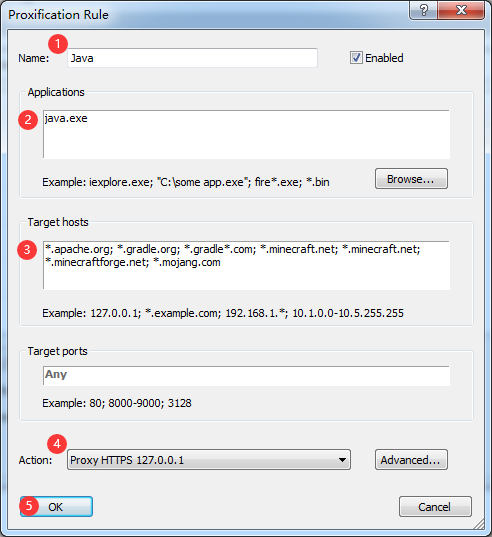
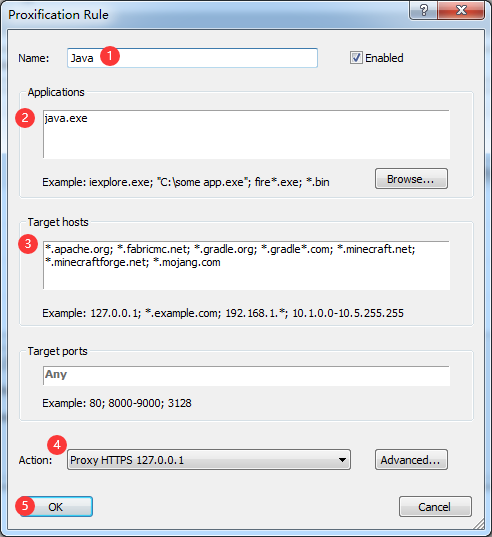
Add downloading jdks for MCreator.

diff --git a/5.md b/5.md
@@ -3,17 +3,17 @@
 # 配置 Proxifier
 
 成功启动 Proxifier 之后，可以在此处下载配置文件，然后按以下步骤操作以替换原先 Proxifier 默认的配置文件：  
-1. **单击[此处](https://gitee.com/zekerzhayard/minecraft-forge-proxy-tutorial/attach_files/1122220/download/MinecraftForge.ppx)下载 Proxifier 的配置文件「MinecraftForge.ppx」**
+1. **单击[此处](https://gitee.com/zekerzhayard/minecraft-forge-proxy-tutorial/attach_files/1137535/download/Minecraft.ppx)下载 Proxifier 的配置文件「Minecraft.ppx」**
 1. 依次选择左上角「File」—「Import Profile...」  
    ![25](assets/25.png)
 1. 在弹出的对话框中单击「是(Y)」按钮  
    ![26](assets/26.png)
-1. 选择刚刚下载到的「MinecraftForge.ppx」文件，然后单击「打开(O)」按钮
+1. 选择刚刚下载到的「Minecraft.ppx」文件，然后单击「打开(O)」按钮
    ![27](assets/27.png)
 
 这样就导入了配置文件。
 
-**最后保持 Shadwosocks 和 Proxifier 都在运行，不要关闭退出它们，就可以开始配置 Minecraft Forge 开发环境了。**
+**最后保持 Shadwosocks 和 Proxifier 都在运行，不要关闭退出它们，就可以开始配置 Minecraft Mod 开发环境了。**
 
 如果想要退出 Proxifier，只需要右键任务栏托盘中的 Proxifier 图标并单击「Exit」即可。
 
@@ -43,7 +43,7 @@
 1. 在弹出的窗口中依次填入以下内容  
    >Name：随便写  
    >Applications：java.exe  
-   >Target hosts：\*.apache.org; \*.gradle.org; \*.gradle\*.com; \*.minecraft.net; \*.minecraftforge.net; \*.mojang.com  
+   >Target hosts：\*.apache.org; \*.fabricmc.net; \*.gradle.org; \*.gradle\*.com; \*.minecraft.net; \*.minecraftforge.net; \*.mojang.com  
    >Action：Proxy HTTPS 127.0.0.1
    
    其余保持默认，然后单击「OK」按钮  
@@ -56,3 +56,5 @@
    ![24](assets/24.png)
 
 这样，Proxifier 就配置完成了。
+
+[>> 下一节：MCreator 需要的额外步骤](6.md)

diff --git a/6.md b/6.md
@@ -1,0 +1,19 @@
+[<< 上一节：配置 Proxifier](5.md)
+
+# MCreator 需要的额外步骤
+
+MCreator 不会使用环境变量里的 JAVA_HOME ，而是将 JAVA_HOME 指向自带的 JDK；  
+由于新版 MCreator 自带的 JDK 不是 JDK 8，所以当构建 Minecraft 1.16.5 或更早版本的开发环境时会自动下载 AdoptOpenJDK 8；  
+由于本教程中的代理服务器并不会代理下载 AdoptOpenJDK，所以需要手动下载对应版本的 JDK 并放到正确的位置上。
+
+1. 退出 MCreator 并确保任务管理器的「进程」和「详细信息」中没有「java.exe」进程
+1. 下载对应版本的 JDK：
+   - [JDK 8 Windows 64 位](https://ghproxy.com/https://github.com/adoptium/temurin8-binaries/releases/download/jdk8u312-b07/OpenJDK8U-jdk_x64_windows_hotspot_8u312b07.zip) （适用于 Minecraft 1.16.5 或更旧版本）
+   - [JDK 16 Windows 64 位](https://ghproxy.com/https://github.com/adoptium/temurin16-binaries/releases/download/jdk-16.0.2%2B7/OpenJDK16U-jdk_x64_windows_hotspot_16.0.2_7.zip) （适用于 Minecraft 1.17.x）
+   - [JDK 17 Windows 64 位](https://ghproxy.com/https://github.com/adoptium/temurin17-binaries/releases/download/jdk-17.0.1%2B12/OpenJDK17U-jdk_x64_windows_hotspot_17.0.1_12.zip) （适用于 Minecraft 1.18 或更新版本）
+1. 将下载到的压缩包重命名为以下名称并放入 `C:\Users\<你的用户名>\.mcreator\gradle\jdks` 文件夹内（没有对应文件夹就新建一个，如果文件夹内有其他文件就全部删除）：
+   - JDK 8：adoptopenjdk-8-x64-windows.zip
+   - JDK 16：adoptopenjdk-16-x64-windows.zip
+   - JDK 17：adoptopenjdk-17-x64-windows.zip  
+   ![28](assets/28.png)
+1. 重新运行 MCreator 并开始构建即可

diff --git a/README.md b/README.md
@@ -1,6 +1,6 @@
-# Minecraft Forge 构建开发环境网络代理配置教程
+# Minecraft Mod 构建开发环境网络代理配置教程
 
-因为在配置 Minecraft Forge 开发环境时需要下载大量国外网站的资源文件，由于国内特殊的网络环境，导致构建过程极其漫长，失败概率较高。  
+因为在配置 Minecraft Mod 开发环境时需要下载大量国外网站的资源文件，由于国内特殊的网络环境，导致构建过程极其漫长，失败概率较高。  
 因此这篇教程将讲述如何配置网络代理以达到加速构建开发环境的目的。
 
 本教程及所需软件仅支持 Windows 7 及以上版本操作系统，其他操作系统用户请自行寻找代替方案。  
@@ -14,3 +14,4 @@
 - [下载 Proxifier](3.md)
 - [安装 Proxifier](4.md)
 - [配置 Proxifier](5.md)
+- [MCreator 需要的额外步骤](6.md)

diff --git a/2.md b/2.md
@@ -18,7 +18,7 @@
 
    ![2](assets/2.png)   
 
-*此代理服务器只能用于构建 Minecraft Forge 开发环境，并不能访问外国网站。*
+*此代理服务器只能用于构建 Minecraft Mod 开发环境，并不能访问外国网站。*
 
 如果想要退出 Shadowsocks，只需要右键任务栏托盘中的 Shadowsocks 图标并单击「退出」即可。
 
